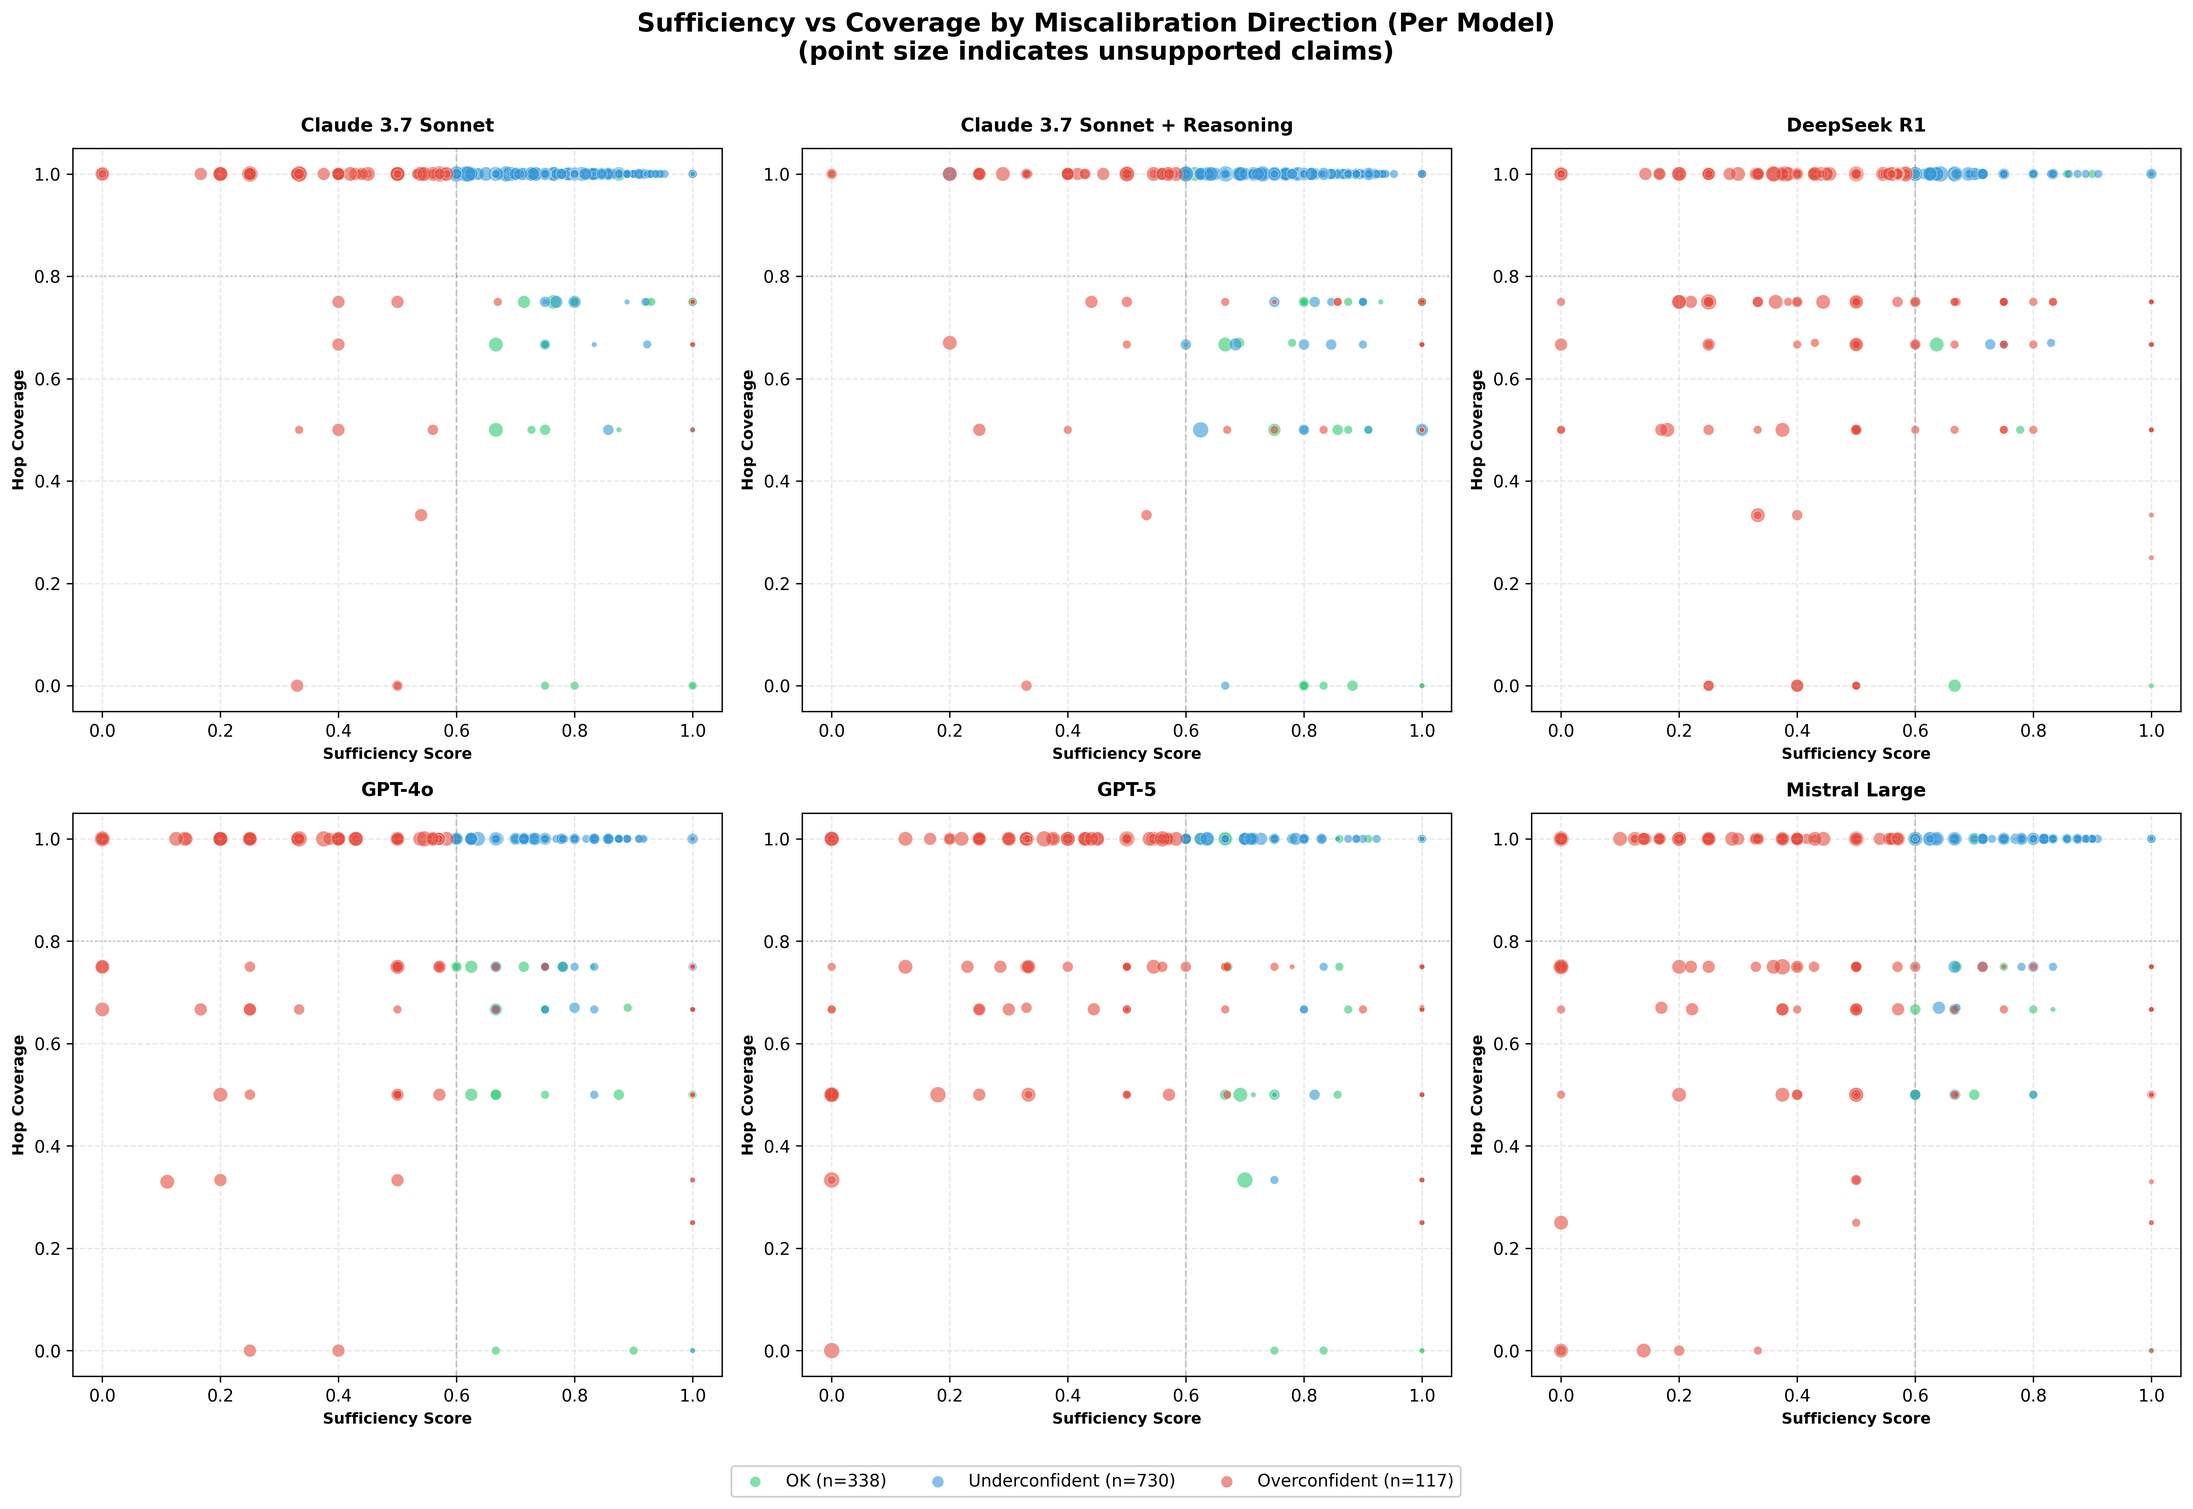
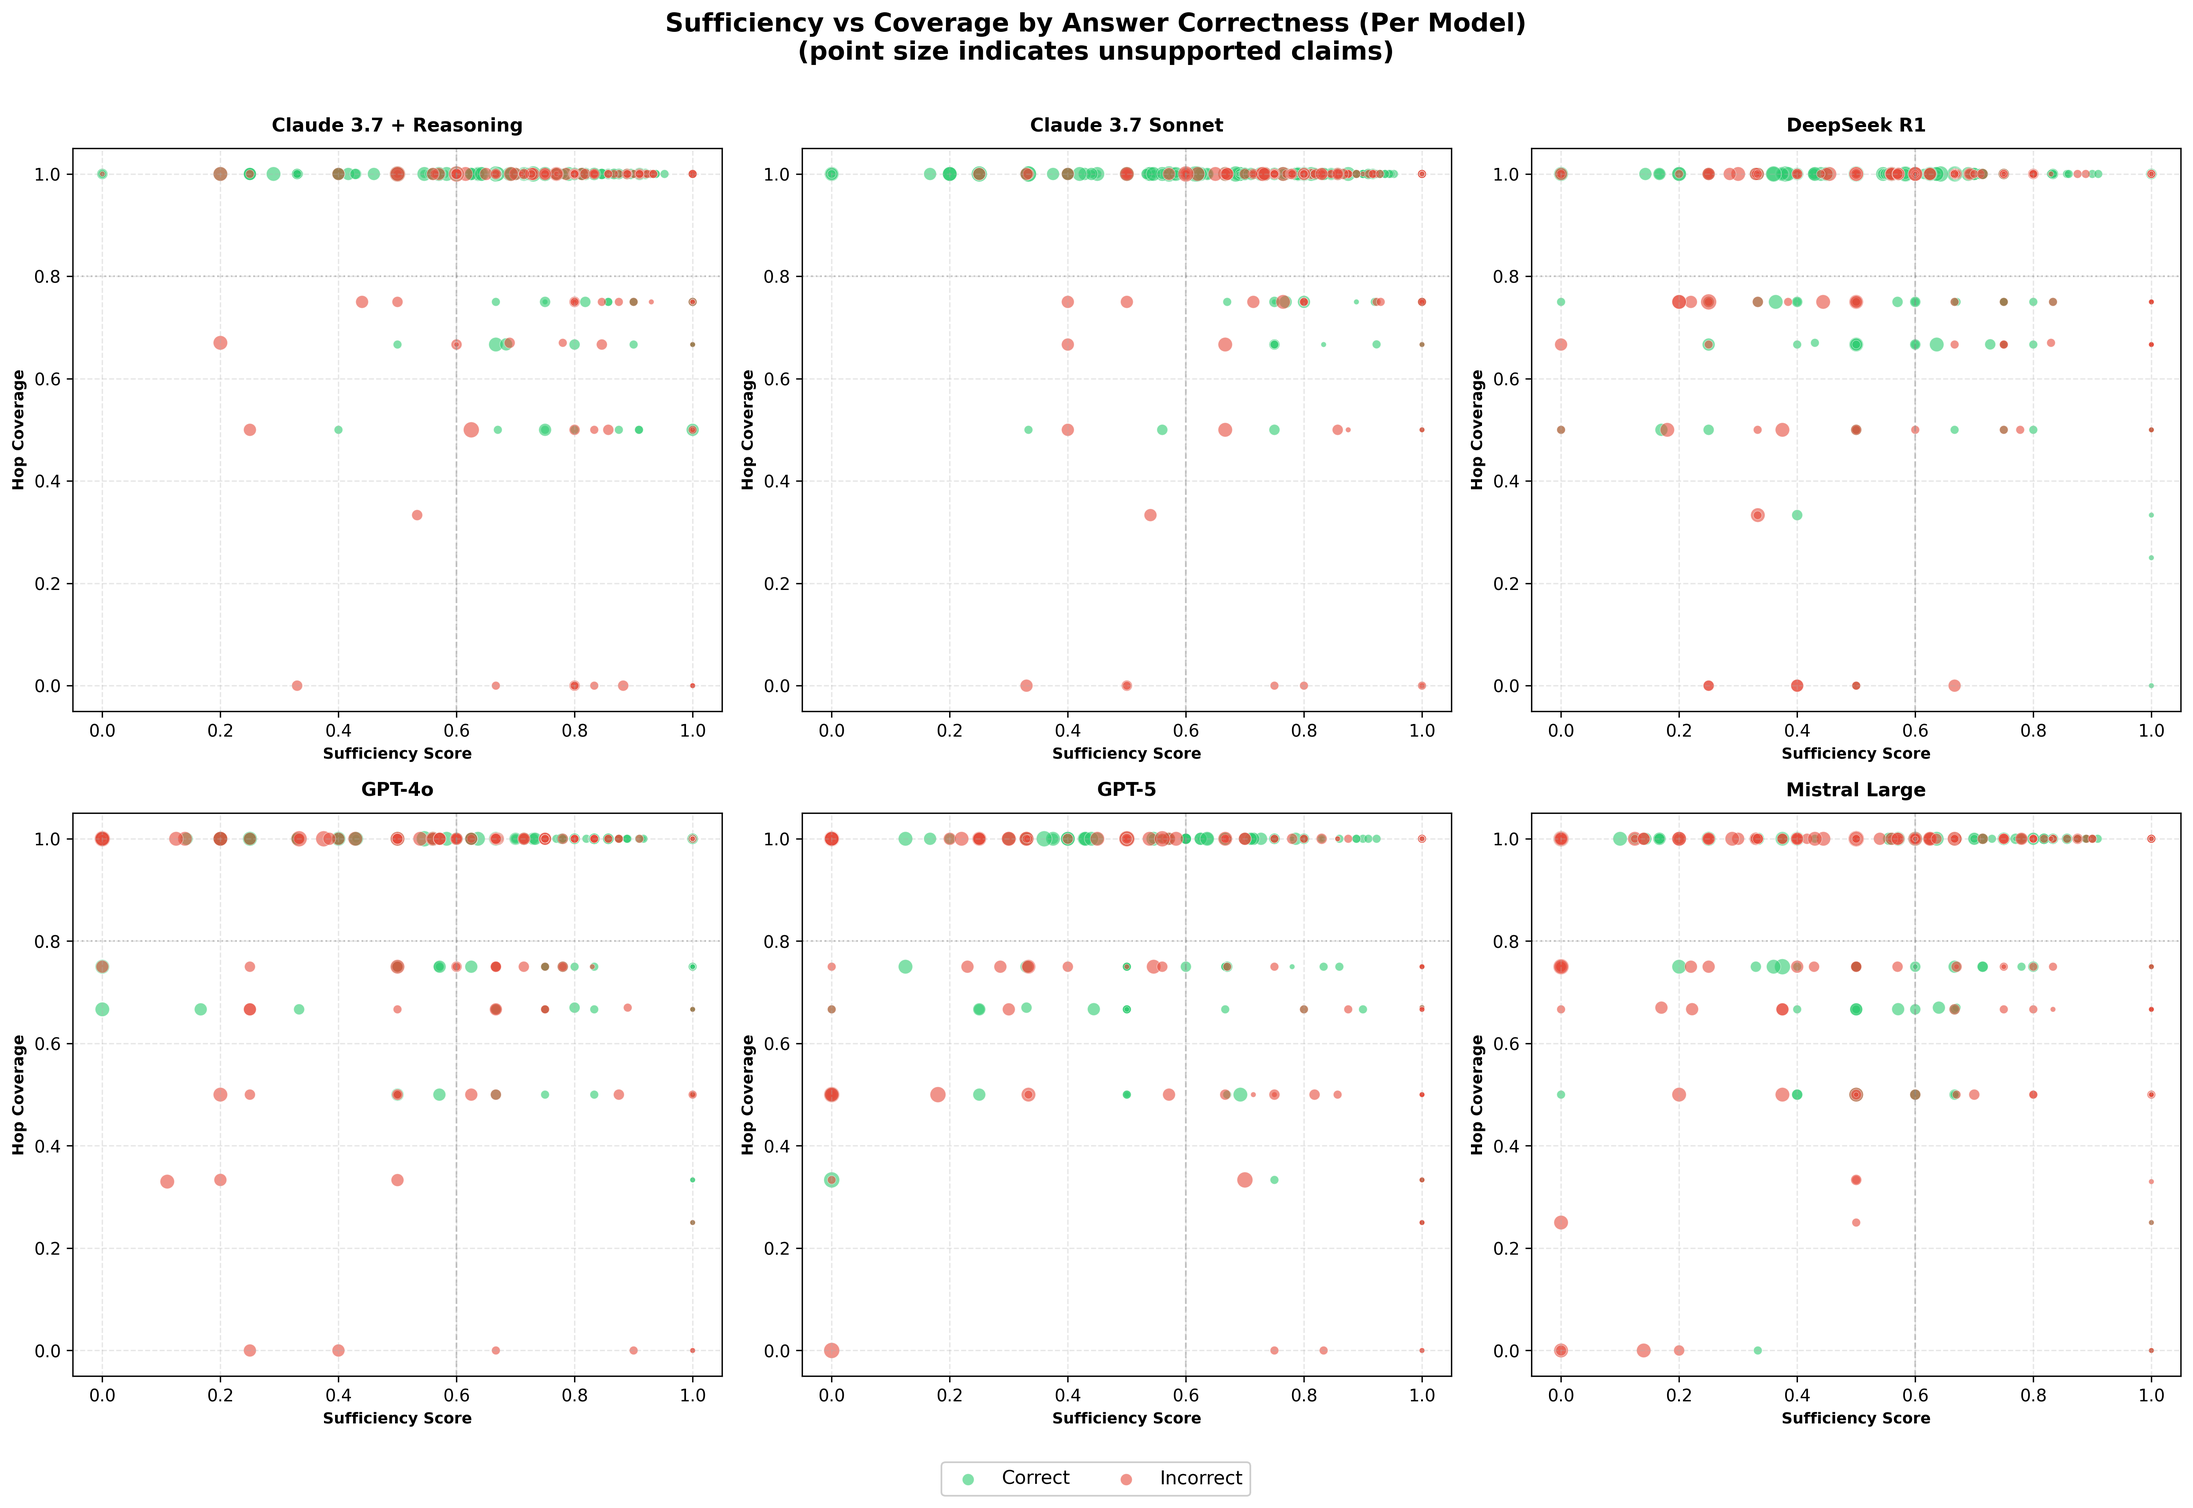
more plots added

diff --git a/src/rag_analysis/hallucination_rag_plots/3_unsupported_claims_vs_accuracy.py b/src/rag_analysis/hallucination_rag_plots/3_unsupported_claims_vs_accuracy.py
@@ -1,0 +1,197 @@
+"""
+Plot 3: Unsupported Claims Impact on Accuracy
+
+Shows how the number of unsupported claims affects accuracy.
+X-axis: Number of unsupported claims
+Y-axis: Accuracy percentage
+Only includes runs with >= 2 steps.
+
+Insight: How much do unsupported claims hurt performance?
+"""
+import json
+import sys
+from pathlib import Path
+from collections import defaultdict
+import matplotlib.pyplot as plt
+import numpy as np
+
+# Add parent directory to path
+sys.path.insert(0, str(Path(__file__).resolve().parents[1]))
+from cross_system_plots.cross_system_utils import (
+    load_all_judgments, create_merged_dataset, normalize_model_name
+)
+
+OUTPUT_DIR = Path(__file__).resolve().parents[2] / 'rag_analysis' / 'output'
+PLOT_DIR = Path(__file__).resolve().parent
+
+
+def count_unsupported_claims(hallucination_judgment):
+    """Count unsupported claims in the judgment."""
+    if not hallucination_judgment:
+        return 0
+    
+    comp_faith = hallucination_judgment.get('composition_and_faithfulness', {})
+    unsupported = comp_faith.get('unsupported_claims', [])
+    
+    count = 0
+    for claim in unsupported:
+        if not claim.get('is_supported', True):
+            count += 1
+    
+    return count
+
+
+def get_num_steps(quality_judgment):
+    """Get number of steps from quality judgment."""
+    if not quality_judgment:
+        return 0
+    
+    per_step = quality_judgment.get('per_step', [])
+    return len(per_step)
+
+
+def main():
+    """Generate unsupported claims vs accuracy plot."""
+    # Load and merge all judgment types
+    cov_records, qual_records, hall_records = load_all_judgments(OUTPUT_DIR)
+    merged = create_merged_dataset(cov_records, qual_records, hall_records)
+    
+    # Filter to records with all data and >= 2 steps
+    complete = [r for r in merged 
+                if 'hallucination' in r and 'quality' in r 
+                and get_num_steps(r.get('quality', {})) >= 2]
+    
+    print(f"Total records with >= 2 steps: {len(complete)}")
+    
+    # Group by model and unsupported claims count
+    # Structure: {model: {unsupported_count: {'correct': count, 'total': count}}}
+    model_unsupported_accuracy = defaultdict(lambda: defaultdict(lambda: {'correct': 0, 'total': 0}))
+    
+    for rec in complete:
+        model = normalize_model_name(rec.get('model', ''))
+        is_correct = rec.get('is_correct', False)
+        unsupported = count_unsupported_claims(rec.get('hallucination', {}))
+        
+        model_unsupported_accuracy[model][unsupported]['total'] += 1
+        if is_correct:
+            model_unsupported_accuracy[model][unsupported]['correct'] += 1
+    
+    # Sort models
+    models = sorted(model_unsupported_accuracy.keys())
+    
+    if len(models) == 0:
+        print("No model data found!")
+        return
+    
+    # Create figure with 2x3 subplots
+    fig, axes = plt.subplots(2, 3, figsize=(18, 12))
+    axes = axes.flatten()
+    
+    colors = plt.cm.tab10(np.arange(len(models)))
+    
+    # Plot each model
+    for idx, model in enumerate(models):
+        if idx >= 6:  # Only show first 6 models
+            break
+        
+        ax = axes[idx]
+        unsupported_accuracy = model_unsupported_accuracy[model]
+        
+        # Get sorted unsupported claim counts
+        unsupported_counts = sorted(unsupported_accuracy.keys())
+        
+        if not unsupported_counts:
+            ax.text(0.5, 0.5, f'No data for {model}', 
+                   ha='center', va='center', transform=ax.transAxes)
+            ax.set_title(model, fontsize=12, fontweight='bold')
+            continue
+        
+        # Calculate accuracy for each count
+        x_values = []
+        y_values = []
+        sizes = []  # Size based on number of samples
+        
+        for count in unsupported_counts:
+            data = unsupported_accuracy[count]
+            total = data['total']
+            correct = data['correct']
+            accuracy = 100 * correct / total if total > 0 else 0
+            
+            x_values.append(count)
+            y_values.append(accuracy)
+            sizes.append(total)
+        
+        # Create scatter plot with line
+        # Scale point sizes
+        min_size = 50
+        max_size = 500
+        if len(sizes) > 1 and max(sizes) > min(sizes):
+            scaled_sizes = [min_size + (s - min(sizes)) / (max(sizes) - min(sizes)) * (max_size - min_size) 
+                           for s in sizes]
+        else:
+            scaled_sizes = [200] * len(sizes)
+        
+        ax.scatter(x_values, y_values, s=scaled_sizes, alpha=0.6, 
+                  color=colors[idx], edgecolors='black', linewidth=1, zorder=3)
+        ax.plot(x_values, y_values, color=colors[idx], linewidth=2, 
+               alpha=0.7, zorder=2)
+        
+        # Add count labels on points
+        for x, y, n in zip(x_values, y_values, sizes):
+            ax.text(x, y + 2, f'n={n}', ha='center', va='bottom', 
+                   fontsize=8, style='italic')
+        
+        # Calculate correlation if enough data points
+        if len(x_values) > 2:
+            corr = np.corrcoef(x_values, y_values)[0, 1]
+            ax.text(0.95, 0.05, f'Correlation: {corr:.3f}', 
+                   transform=ax.transAxes, ha='right', va='bottom',
+                   fontsize=9, bbox=dict(boxstyle='round', facecolor='white', alpha=0.8))
+        
+        # Formatting
+        ax.set_xlabel('Number of Unsupported Claims', fontsize=10, fontweight='bold')
+        ax.set_ylabel('Accuracy (%)', fontsize=10, fontweight='bold')
+        ax.set_title(model, fontsize=12, fontweight='bold', pad=10)
+        ax.set_ylim(-5, 105)
+        ax.grid(alpha=0.3, linestyle='--')
+        
+        # Add reference line at 50% accuracy
+        ax.axhline(y=50, color='gray', linestyle=':', alpha=0.5, linewidth=1)
+    
+    # Hide unused subplots
+    for idx in range(len(models), 6):
+        axes[idx].axis('off')
+    
+    # Overall title
+    fig.suptitle('Impact of Unsupported Claims on Accuracy (Runs with ≥2 Steps)\n(point size indicates sample size)',
+                fontsize=16, fontweight='bold', y=0.995)
+    
+    plt.tight_layout(rect=[0, 0.02, 1, 0.985])
+    output_path = PLOT_DIR / '3_unsupported_claims_vs_accuracy.png'
+    plt.savefig(output_path, dpi=300, bbox_inches='tight')
+    print(f"Saved: {output_path}")
+    plt.close()
+    
+    # Print statistics
+    print("\n=== Unsupported Claims vs Accuracy Statistics ===")
+    for model in sorted(models):
+        print(f"\n{model}:")
+        unsupported_accuracy = model_unsupported_accuracy[model]
+        unsupported_counts = sorted(unsupported_accuracy.keys())
+        
+        for count in unsupported_counts:
+            data = unsupported_accuracy[count]
+            total = data['total']
+            correct = data['correct']
+            accuracy = 100 * correct / total if total > 0 else 0
+            print(f"  {count} unsupported claims (n={total}): Accuracy={accuracy:.1f}%")
+        
+        # Calculate overall stats
+        total_correct = sum(d['correct'] for d in unsupported_accuracy.values())
+        total_runs = sum(d['total'] for d in unsupported_accuracy.values())
+        overall_accuracy = 100 * total_correct / total_runs if total_runs > 0 else 0
+        print(f"  Overall (n={total_runs}): Accuracy={overall_accuracy:.1f}%")
+
+
+if __name__ == '__main__':
+    main()

diff --git a/src/rag_analysis/hallucination_rag_plots/2_sufficiency_vs_coverage.py b/src/rag_analysis/hallucination_rag_plots/2_sufficiency_vs_coverage.py
@@ -1,11 +1,11 @@
 """
-Plot 2: Sufficiency vs Coverage Scatter with Miscalibration (Per Model)
+Plot 2: Sufficiency vs Coverage Scatter by Correctness (Per Model)
 
 Scatter plot showing the relationship between sufficiency score and hop coverage,
-colored by miscalibration direction, with point size indicating unsupported claims.
+colored by answer correctness (correct/incorrect), with point size indicating unsupported claims.
 6 subplots, one for each model.
 
-Insight: Can we predict miscalibration from sufficiency and coverage scores?
+Insight: How do sufficiency and coverage scores differ between correct and incorrect answers?
 """
 import json
 import sys
@@ -15,43 +15,64 @@ import numpy as np
 
 # Add parent directory to path
 sys.path.insert(0, str(Path(__file__).resolve().parents[1]))
-from hallucination_rag_plots.hall_plot_utils import (
-    load_hallucination_judgments, count_unsupported_claims, normalize_model_name
+from cross_system_plots.cross_system_utils import (
+    load_all_judgments, create_merged_dataset, normalize_model_name
 )
 
 OUTPUT_DIR = Path(__file__).resolve().parents[2] / 'rag_analysis' / 'output'
 PLOT_DIR = Path(__file__).resolve().parent
 
 
+def count_unsupported_claims(hallucination_judgment):
+    """Count unsupported claims in the judgment."""
+    if not hallucination_judgment:
+        return 0
+    
+    comp_faith = hallucination_judgment.get('composition_and_faithfulness', {})
+    unsupported = comp_faith.get('unsupported_claims', [])
+    
+    count = 0
+    for claim in unsupported:
+        if not claim.get('is_supported', True):
+            count += 1
+    
+    return count
+
+
 def main():
     """Generate sufficiency vs coverage scatter plot with 6 subplots (one per model)."""
-    records = load_hallucination_judgments(OUTPUT_DIR)
+    # Load and merge all judgment types
+    cov_records, qual_records, hall_records = load_all_judgments(OUTPUT_DIR)
+    merged = create_merged_dataset(cov_records, qual_records, hall_records)
+    
+    # Filter to records with hallucination data
+    complete = [r for r in merged if 'hallucination' in r]
     
     # Extract data points by model
     model_data = {}
     
-    for rec in records:
+    for rec in complete:
         model = normalize_model_name(rec.get('model', ''))
-        judgment = rec.get('parsed_judgment', {})
+        judgment = rec.get('hallucination', {})
         cf = judgment.get('composition_and_faithfulness', {})
         cm = judgment.get('confidence_miscalibration', {})
         
         suff = cf.get('sufficiency_score_est')
         cov = cm.get('hop_coverage_est')
-        direction = cm.get('direction', 'ok')
+        is_correct = rec.get('is_correct', False)
         
         if suff is not None and cov is not None:
             if model not in model_data:
                 model_data[model] = {
-                    'ok': {'suff': [], 'cov': [], 'unsup': []},
-                    'underconfident_continue': {'suff': [], 'cov': [], 'unsup': []},
-                    'overconfident_finalize': {'suff': [], 'cov': [], 'unsup': []}
+                    'correct': {'suff': [], 'cov': [], 'unsup': []},
+                    'incorrect': {'suff': [], 'cov': [], 'unsup': []}
                 }
             
+            category = 'correct' if is_correct else 'incorrect'
             unsupported = count_unsupported_claims(judgment)
-            model_data[model][direction]['suff'].append(float(suff))
-            model_data[model][direction]['cov'].append(float(cov))
-            model_data[model][direction]['unsup'].append(unsupported)
+            model_data[model][category]['suff'].append(float(suff))
+            model_data[model][category]['cov'].append(float(cov))
+            model_data[model][category]['unsup'].append(unsupported)
     
     # Sort models
     models = sorted(model_data.keys())
@@ -65,15 +86,13 @@ def main():
     axes = axes.flatten()
     
     colors = {
-        'ok': '#2ecc71',
-        'underconfident_continue': '#3498db',
-        'overconfident_finalize': '#e74c3c'
+        'correct': '#2ecc71',      # Green for correct
+        'incorrect': '#e74c3c'      # Red for incorrect
     }
     
     labels = {
-        'ok': 'OK',
-        'underconfident_continue': 'Underconfident',
-        'overconfident_finalize': 'Overconfident'
+        'correct': 'Correct',
+        'incorrect': 'Incorrect'
     }
     
     # Plot each model
@@ -82,11 +101,11 @@ def main():
             break
         
         ax = axes[idx]
-        data_by_direction = model_data[model]
+        data_by_category = model_data[model]
         
-        # Plot each direction
-        for direction in ['ok', 'underconfident_continue', 'overconfident_finalize']:
-            data = data_by_direction[direction]
+        # Plot each category (correct/incorrect)
+        for category in ['correct', 'incorrect']:
+            data = data_by_category[category]
             if not data['suff']:
                 continue
             
@@ -95,8 +114,8 @@ def main():
             
             ax.scatter(data['suff'], data['cov'], 
                       s=sizes, alpha=0.6, 
-                      color=colors[direction],
-                      label=f"{labels[direction]} (n={len(data['suff'])})",
+                      color=colors[category],
+                      label=labels[category],
                       edgecolors='white', linewidth=0.3)
         
         # Add reference lines
@@ -118,11 +137,11 @@ def main():
     # Create a single shared legend at the bottom
     handles, labels_list = axes[0].get_legend_handles_labels()
     if handles:
-        fig.legend(handles, labels_list, loc='lower center', ncol=3, framealpha=0.95, 
-                  fontsize=10, bbox_to_anchor=(0.5, -0.02))
+        fig.legend(handles, labels_list, loc='lower center', ncol=2, framealpha=0.95, 
+                  fontsize=11, bbox_to_anchor=(0.5, -0.02))
     
     # Overall title
-    fig.suptitle('Sufficiency vs Coverage by Miscalibration Direction (Per Model)\n(point size indicates unsupported claims)',
+    fig.suptitle('Sufficiency vs Coverage by Answer Correctness (Per Model)\n(point size indicates unsupported claims)',
                 fontsize=15, fontweight='bold', y=0.995)
     
     plt.tight_layout(rect=[0, 0.02, 1, 0.985])
@@ -132,12 +151,12 @@ def main():
     plt.close()
     
     # Print statistics
-    print("\n=== Sufficiency vs Coverage Statistics (Per Model) ===")
+    print("\n=== Sufficiency vs Coverage Statistics by Correctness (Per Model) ===")
     for model in sorted(models):
         print(f"\n{model}:")
-        data_by_direction = model_data[model]
-        for direction, label in labels.items():
-            data = data_by_direction[direction]
+        data_by_category = model_data[model]
+        for category, label in labels.items():
+            data = data_by_category[category]
             if data['suff']:
                 print(f"  {label} (n={len(data['suff'])}):")
                 print(f"    Avg Sufficiency: {np.mean(data['suff']):.3f}")
